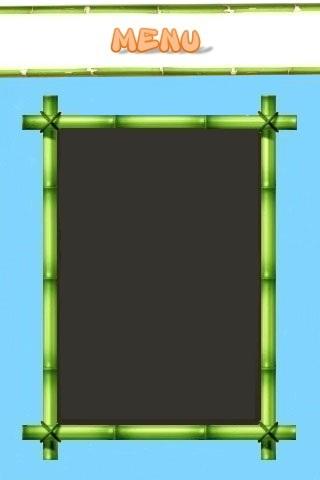
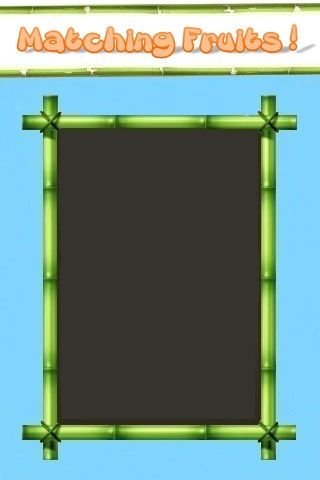
change title 'menu' to 'matching fruits !'

Changed region(s): [[0.0312, 0.0312, 0.9688, 0.125]]

diff --git a/css/app.css b/css/app.css
@@ -155,11 +155,6 @@ div#menu div, div#game div, div#scores div {
 div#menu div:hover, div#game div:hover, div#scores div:hover {
  color: #222; 
  background: #555; 
- background: -webkit-linear-gradient( #777, #333); 
- background: -moz-linear-gradient( #777, #333); 
- background: -ms-linear-gradient( #777, #333); 
- background: -o-linear-gradient( #777, #333); 
- background: linear-gradient( #777, #333); 
 }
 
 div#menu div#btn-play {
